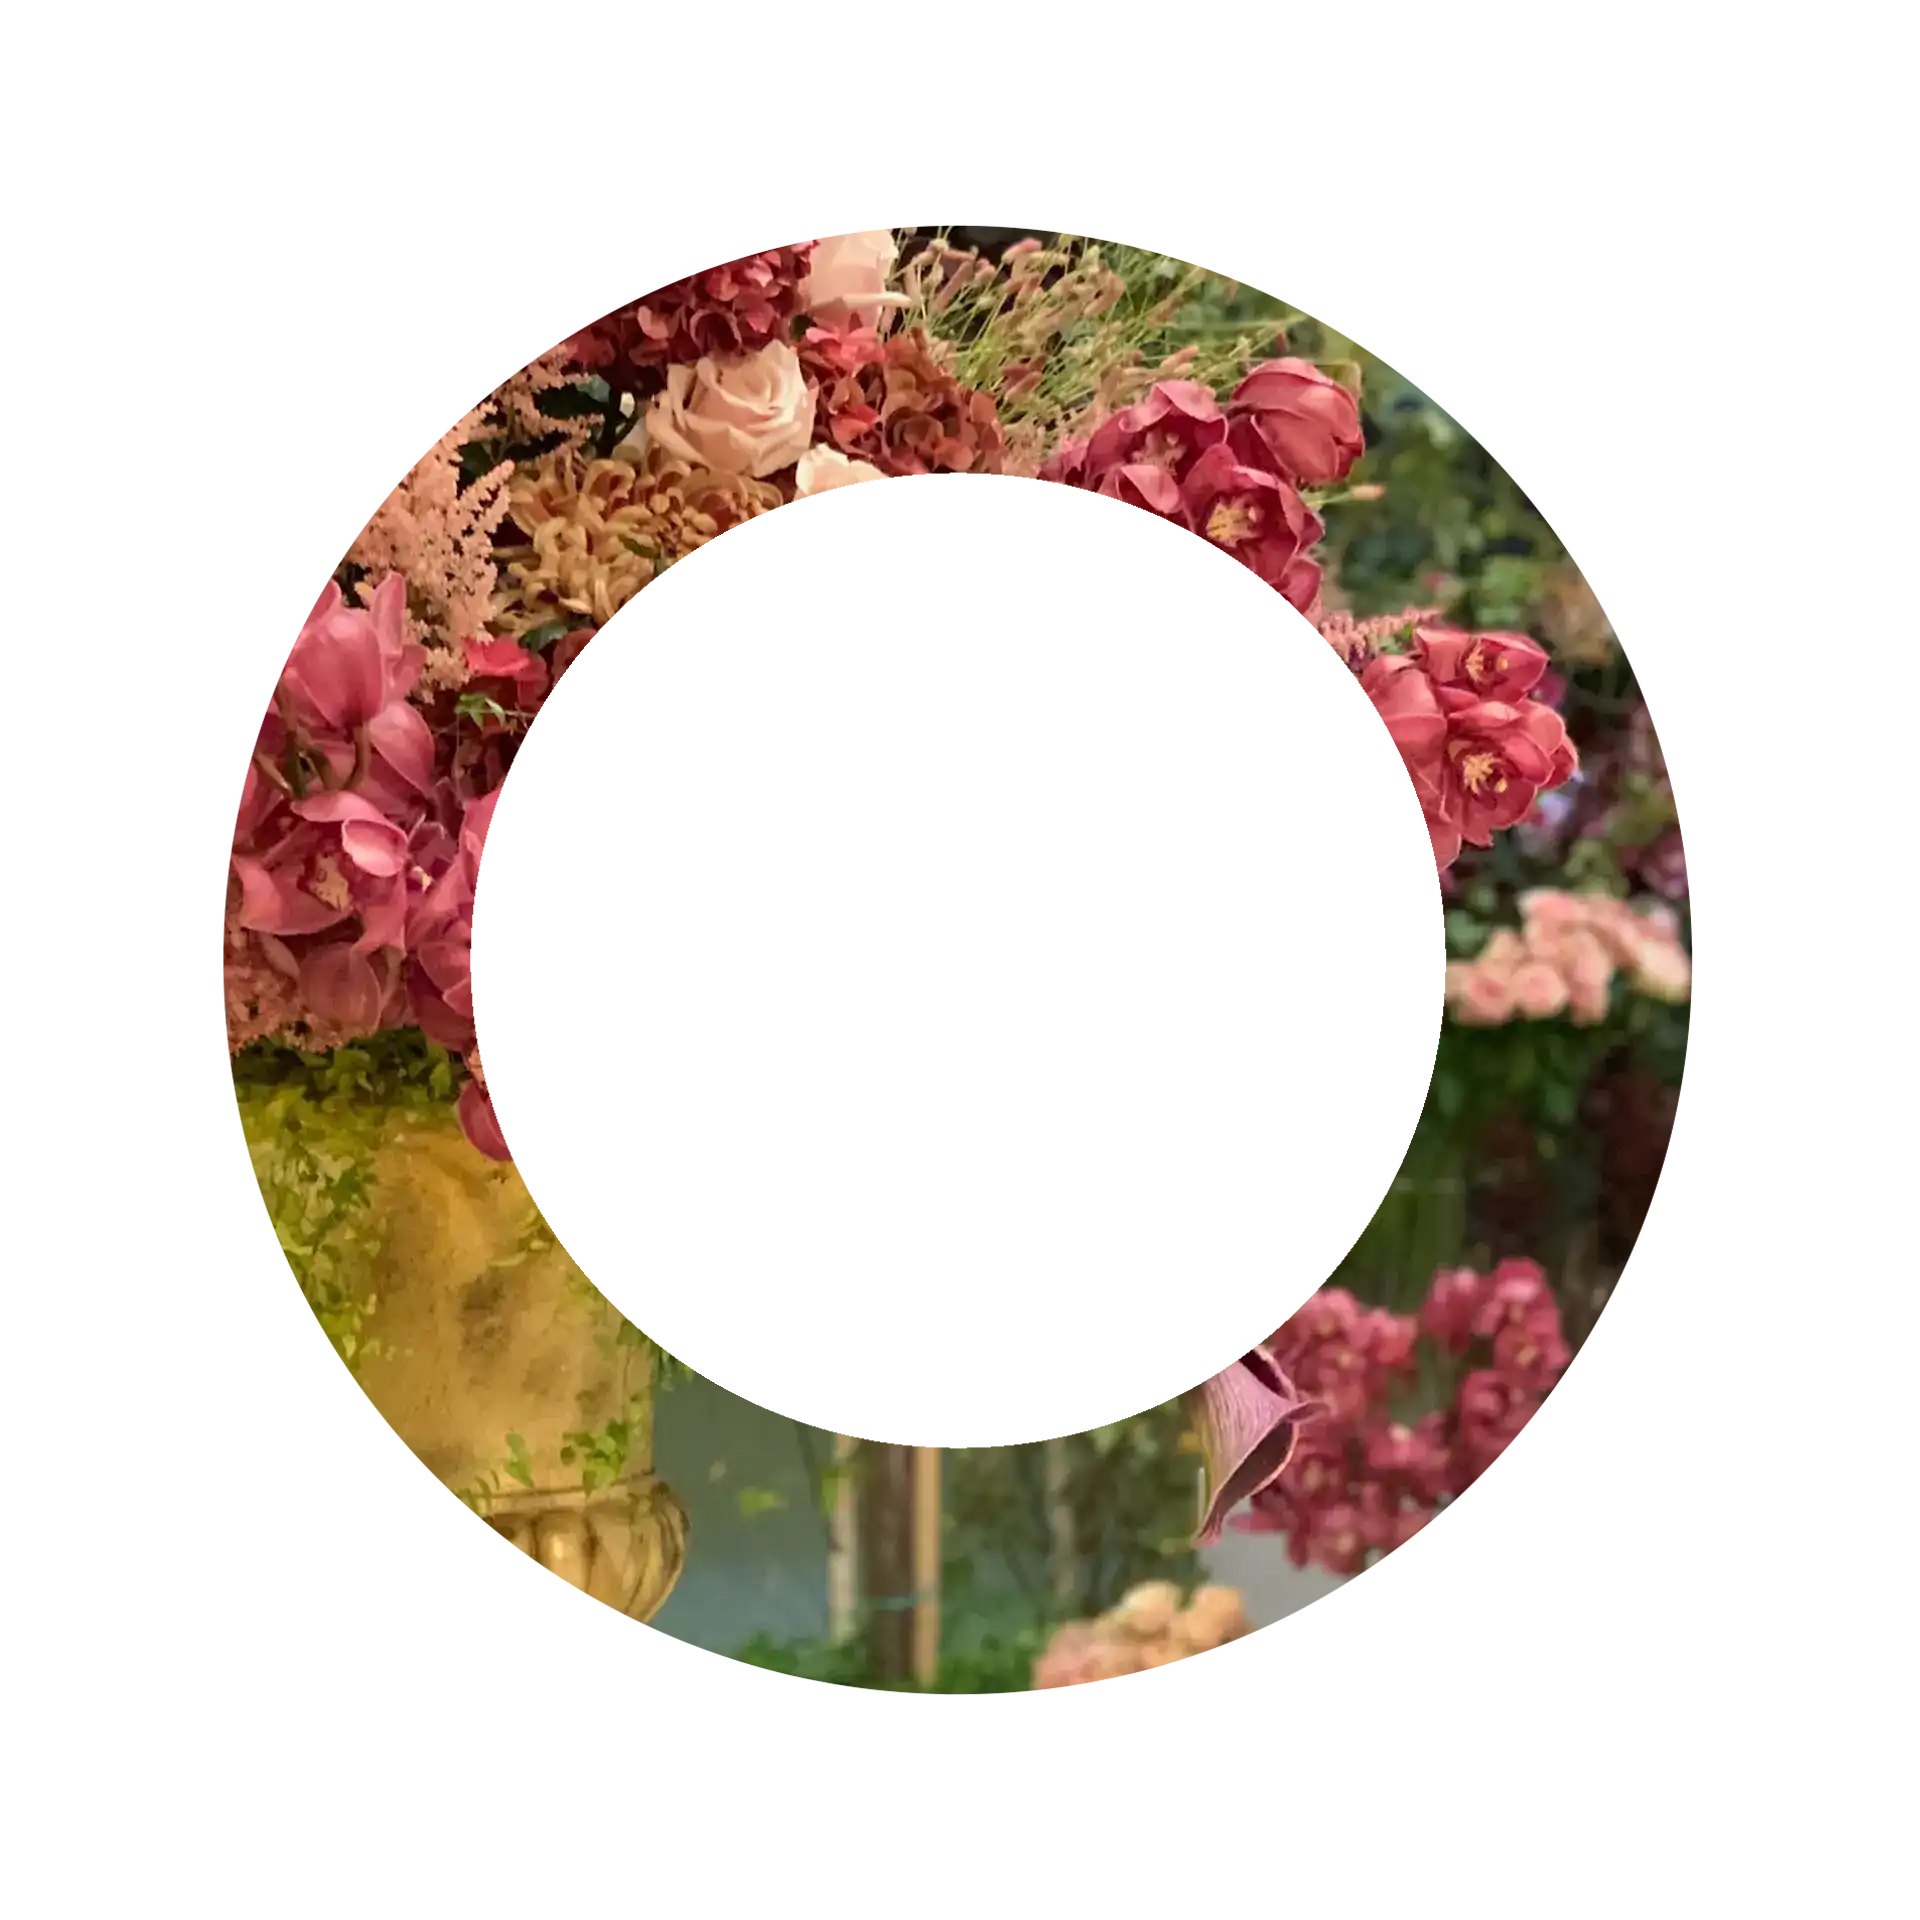
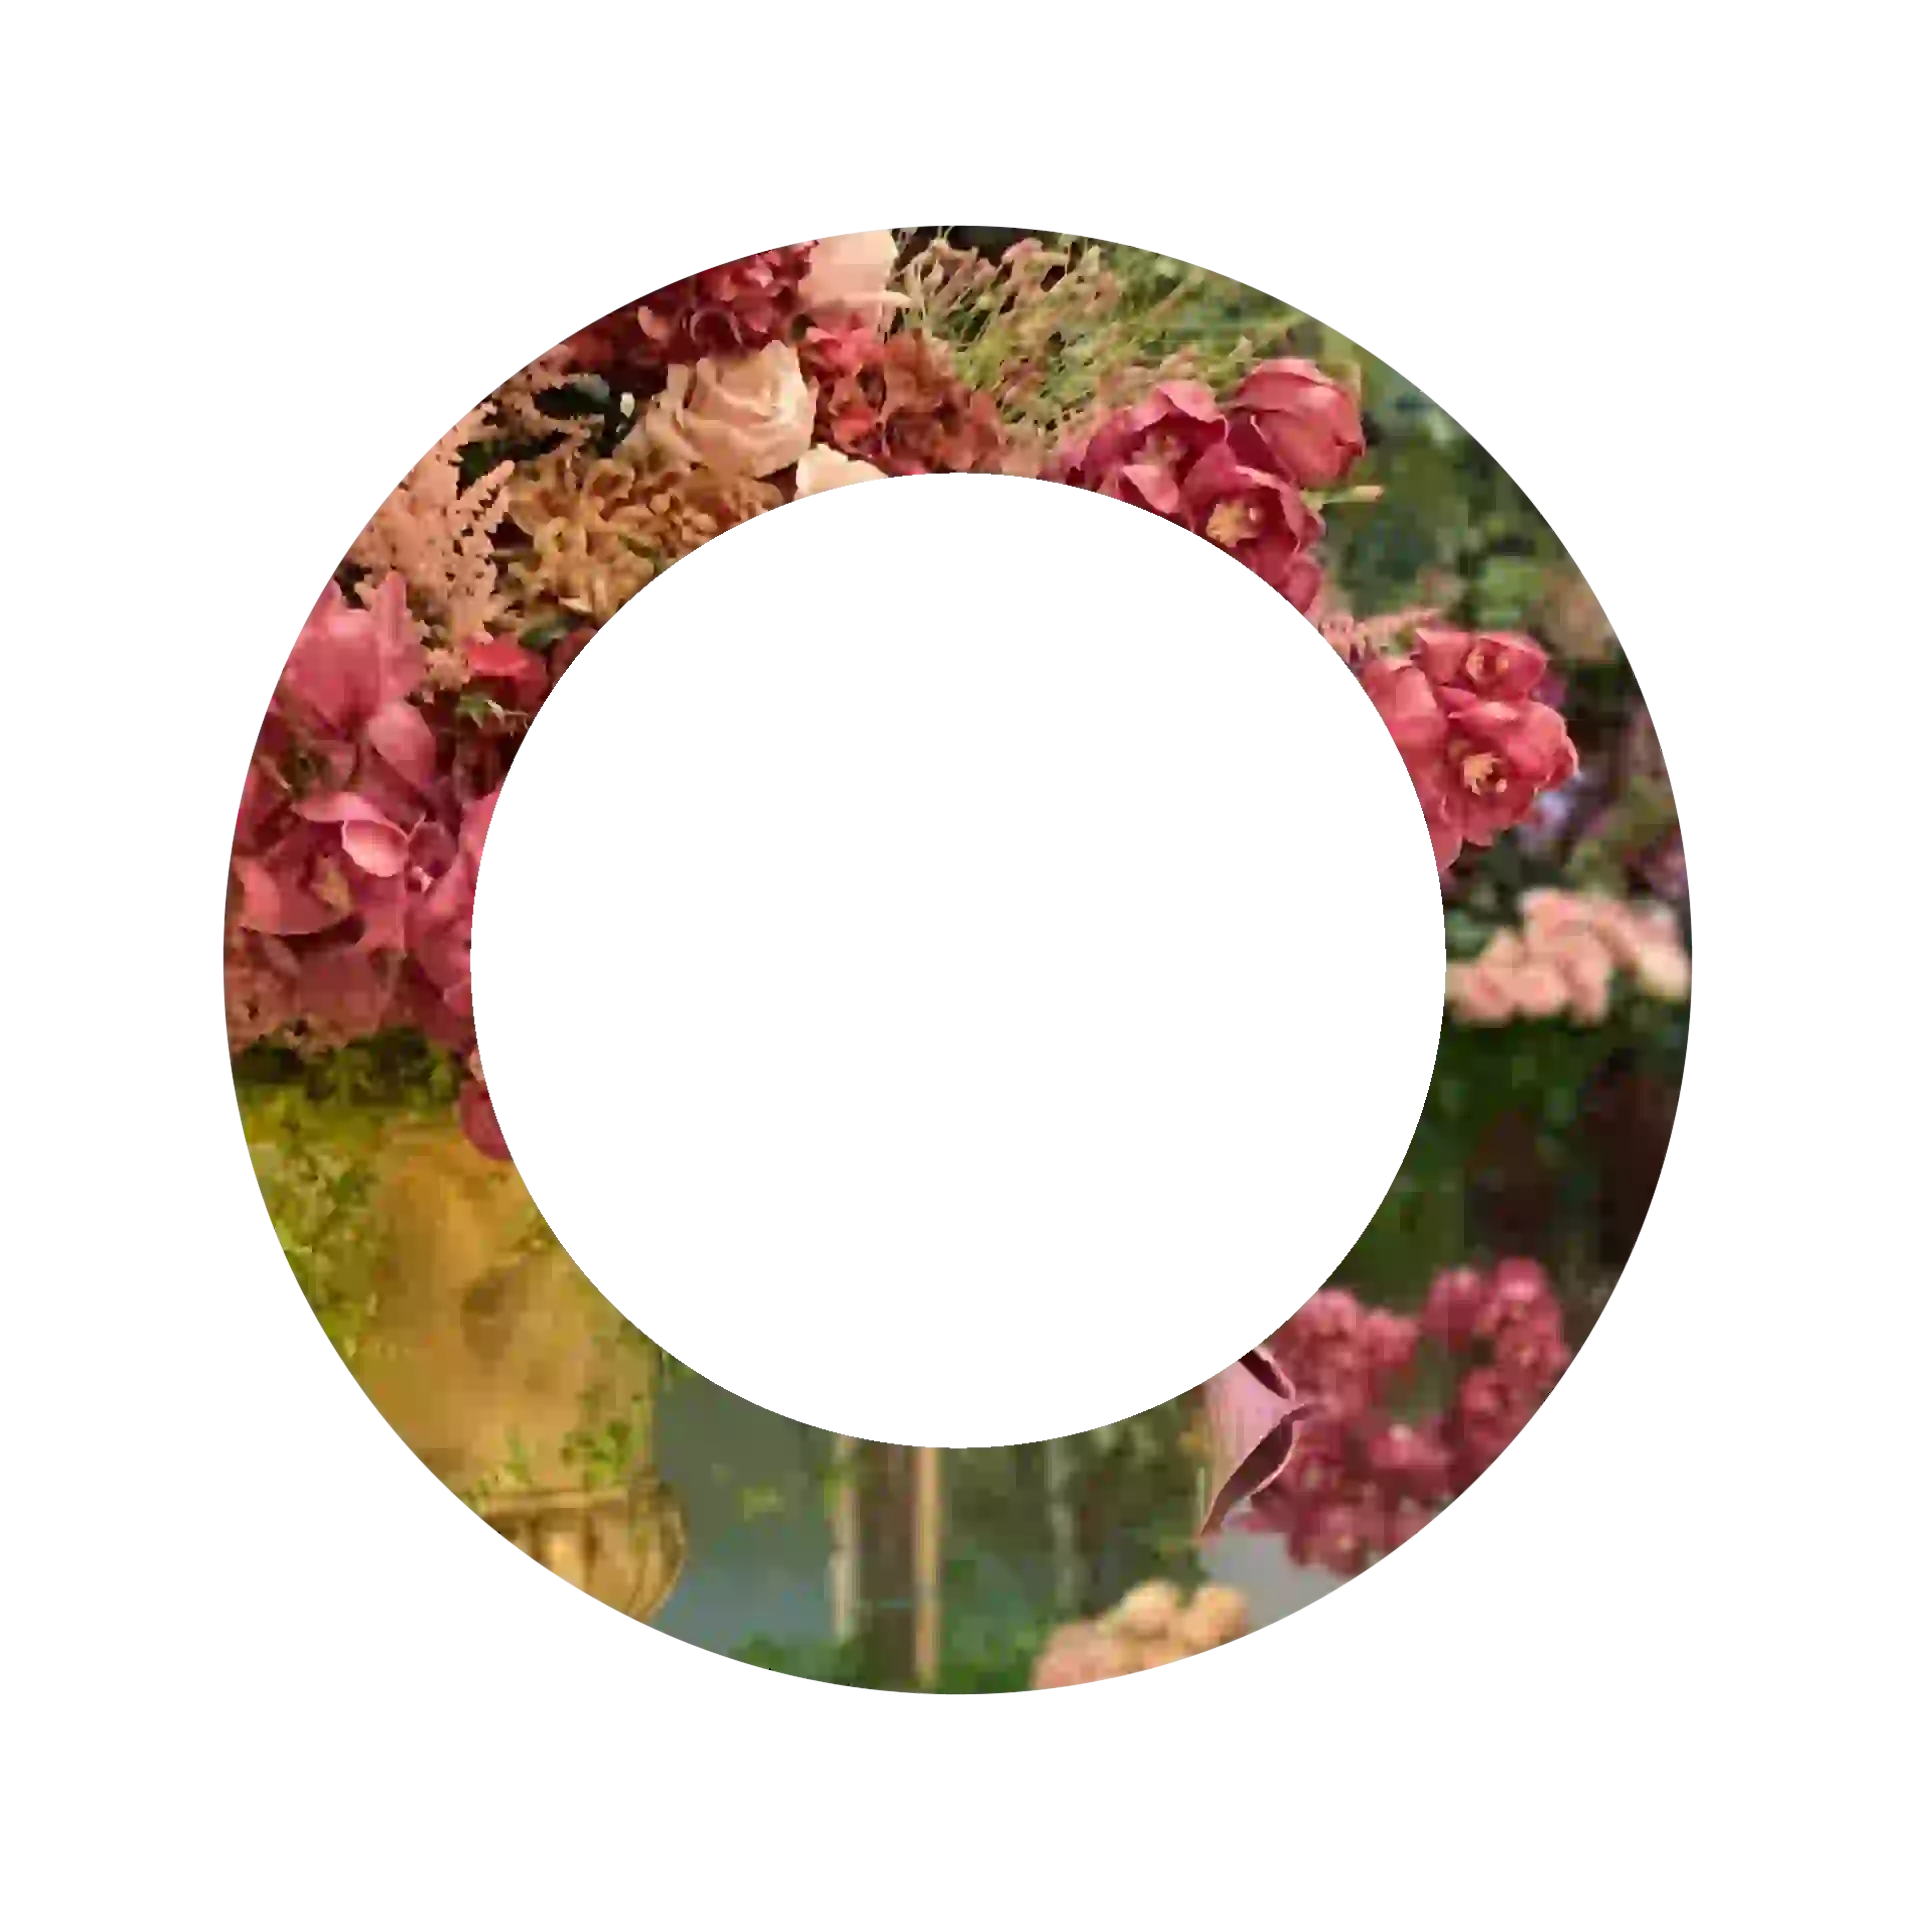
fix: update rotation values for ring animation in Hero component, compress images

diff --git a/src/components/Home/Hero.tsx b/src/components/Home/Hero.tsx
@@ -19,7 +19,7 @@ function Hero() {
 
         utils.$('#ring').forEach(($ring, key) => {
             animate($ring, {
-                rotate: key % 2 === 0 ? '1turn' : '-1turn',
+                rotate: key % 2 === 0 ? '360deg' : '-360deg',
                 loop: true,
                 ease: 'linear',
                 duration: 100000,
